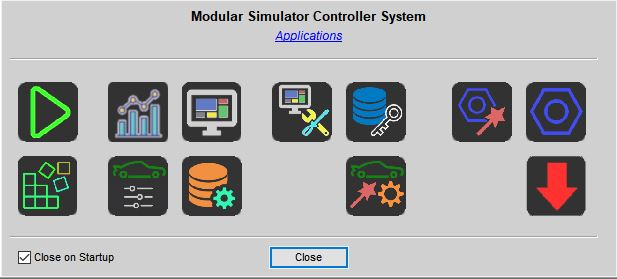
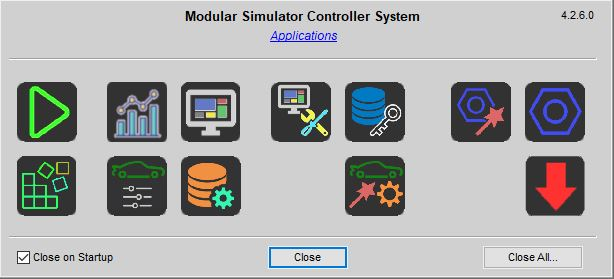
Documentation Update

diff --git a/Docs/Using Simulator Controller.md b/Docs/Using Simulator Controller.md
@@ -6,6 +6,8 @@ Once you have configured everything for your simulation rig, there are two appli
 
 This window will give you access to all applications of Simulator Controller. You will get some information about a given application, when you hover with the mouse above the icon. Beside starting any of the applications and tools of Simulator Controller, you can continue the startup process of all the components you need, when running a simulation, by clicking on the top left icon. Depending on your concrete configuration, *Simulator Startup* will then start all the configured component applications including *Simulator Controller.exe*, which will be responsible for the essential part, the control of all your simulation applications and simulator games using your hardware controller. Put a check mark in the check box in the lower left corner, when you want the launch window to be closed automatically, when you enter your simulation.
 
+If you want to download and install a new version of Simulator Controller, it is important that none of the applications of the suite is running during the update. Please use the button "Close All..." in the lower right corner just before running the update.
+
 Note: If you don't want to use the launch window and want *Simulator Startup* to run through, create a shortcut and add the option "-NoLaunchPad" to the *Target* field. When you use this shortcut file, no launch window will be shown, unless you hold down the Shift key, while running *Simulator Startup*. The other way around can also be used: If you press the Shift key while running *Simulator Startup* normally, no launch window will be shown and the startup process will run directly.
 
 ## Startup Process & Settings
@@ -71,6 +73,12 @@ After the startup process has completed, the splash screen of *Simulator Startup
 Normally, the active mode on your hardware controller will be the "Launch" mode, so that you can launch additional applications by the touch of a button. For a complete documentation on everything available in the "Simulator Controller" application, please consult the documentation about [Plugins & Modes](https://github.com/SeriousOldMan/Simulator-Controller/wiki/Plugins-&-Modes).
 
 Normally, it is not necessary to close *Simulator Controller.exe*, since it is very efficient and does not use many system resources. But if necessary, you can locate its icon, a small silverish gear, in the System Tray (at the lower right side of the Windows taskbar), right click the icon and choose Exit.
+
+### Enabling and disabling features
+
+Simulataor Controller is a modular software and consists of many functions, which can be enabled or disabled during runtime. Beside using buttons on your hardware controller to enable or disable these functions, for example the connection to the Team Server or whether Track Automations will be active during the current session, you can also control most of them from the tray menu of the "Simulator Controller" application. Please don't touch the options in the "Support" submenu, unless told you otherwise when tracking down problems.
+
+(*) picture
 
 ### Voice Commands
 

diff --git a/Docs/Releases.md b/Docs/Releases.md
@@ -5,7 +5,7 @@
   3. The quality of race reports has been improved for *rFactor 2*.
   4. Some tweaks in the delta calculation of the Spotter.
   5. Many of the important settings like Team Server On/Off, Track Automation On/Off, and so on, are now available in the tray menu of "Simulator Controller". See the [Documentation](*) for more information.
-  6. The new controller action functions ["enableRaceAssistant" and "disableRaceAssistant"](*) let you control the availability of the Race Assistants with an external event source.
+  6. The new controller action functions ["enableRaceAssistant" and "disableRaceAssistant"](https://github.com/SeriousOldMan/Simulator-Controller/wiki/Installation-&-Configuration#actions) let you control the availability of the Race Assistants with an external event source.
   7. The controller action function "changePitstopBrakeType" has been renamed to "changePitstopBrakePadType".
   8. A new new preset in "Simulator Setup" let you mute the Spotter in case, you want to use a different tool for this purpose, but still want to use the track mapping and automation feature.
   9. The connection to the Team Server is now deferred in "Simulator Configuration", until you enter the Team tab. The tool therefore starts much faster now.
@@ -15,9 +15,10 @@
 	  
   11. Fixed the identification of the current driver in race reports and post race reviews for *RaceRoom Racing Experience*.
   12. The launch pad of "Simulator Startup" now has a button with which you can close all running applications with one click.
-  13. Fixed many errors in track map creation for *Assetto Corsa*, *Automobilista 2*, *Project CARS 2* and *RaceRoom Racing Experience*. All recorded maps so far will be deleted and re-recorded. Track automations must be recreated as well.
-  14. Additional tyre meta data has been added for *Automobilista 2* and *RaceRoom Racing Experience*. See the [documentation](*) for more information about tyre meta data.
-  15. Action points can now be dragged with the mouse in the track automation editor.
+  13. Version number is display in the launch pad window of "Simulator Startup".
+  14. Fixed many errors in track map creation for *Assetto Corsa*, *Automobilista 2*, *Project CARS 2* and *RaceRoom Racing Experience*. All recorded maps so far will be deleted and re-recorded. Track automations must be recreated as well.
+  15. Additional tyre meta data has been added for *Automobilista 2* and *RaceRoom Racing Experience*. See the [documentation](https://github.com/SeriousOldMan/Simulator-Controller/wiki/Tyre-Compounds) for more information about tyre meta data.
+  16. Action points can now be dragged with the mouse in the track automation editor.
 
 Please also take a look at the [Update Notes](https://github.com/SeriousOldMan/Simulator-Controller/wiki/Update-Notes#release-426), there are a couple of things to mention.
 

diff --git a/Docs/Team Server.md b/Docs/Team Server.md
@@ -136,6 +136,8 @@ The reports at the top of the list are the well known report, wich are also avai
 
 ![](https://github.com/SeriousOldMan/Simulator-Controller/blob/main/Docs/Images/Race%20Center%2019.JPG)
 
+Note: The values for wear (tyres and brake pads) range from 0% up to 100%. For most of the simulators this value is directly available through the API, whereas in *Assetto Corsa Competizione*, the data interface provide the remaining thickness of each pad. Depending on the compound of the pad, the wear level for 100% ranges from 12 mm to 15.5 mm left pad thickness here, with a starting thickness for a fresh pad with 29 mm.
+
 Last but not least, using the small button with the gear icon, you can choose various settings for the currently selected report, for example the range of laps to be considered in the data or the set of drivers in reports which are driver specific.
 
 A very special report is the live track view, which is available for all race simulators, which support track ccordinates. The track maps will be created automatically when you have driven a couple of laps on a given track with the Race Spotter active. See the [corresponding documentation](https://github.com/SeriousOldMan/Simulator-Controller/wiki/Team-Server#data-analysis) for more information. If a track map is available, you can select the "Track" report from the reports list to open the live view of the current race situation.
